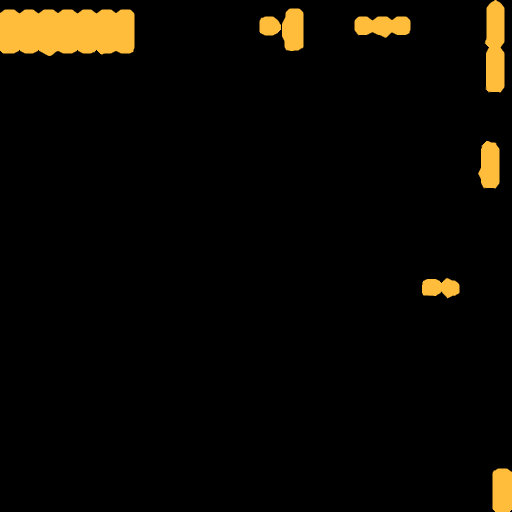
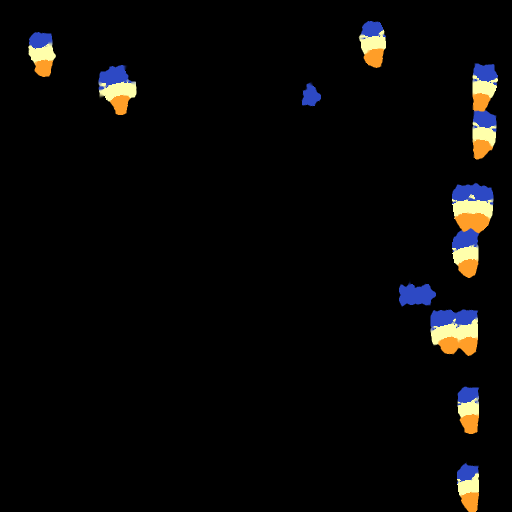
DOOM-0644: give Ultra's candle and candelabra a flame-shaped flame
The candelabra's three flames were rectangular blocks, and the candle
had no model. Both now burn with a teardrop: blue at the foot, pale
through the body, orange at the tip. The candle is a new model, a wax
stub in an iron dish with one light a third of the candelabra's.
Solid keeps the game's own candle picture.

Also files DOOM-0645 (E1M1's floor lamps are black and light nothing
nearby in the rasterised view) and DOOM-0646 (key-door strips as
coloured lights), both from the user today.

write-code: plain make clean; make test all passed, pickup_models_test
with CAND in its decoration table (bounds and radius checks ran on
CAND.dmdl). Local art pack rebaked. Proof of the look is captures:
E2M1 candles and E1M1 candelabra, Ultra, -rtview 0 and 6, before and
after; E2M1 start under -sourcedlight still candle-lit. Rows fired:
counted set, source file (models.csv, LICENSES), spec file. No pair
list in the project. The builders live outside this repository, in
the shared Blender Scripts folder.
write-doc: short path; DOOM-0539 section 5 names CAND, loop-log row
written.

diff --git a/linuxdoom-1.10/tests/pickup_models_test.cpp b/linuxdoom-1.10/tests/pickup_models_test.cpp
@@ -60,7 +60,7 @@ struct Decoration { Sprite sprite; int radius; };
 // the radius is info.c's, which contract 3 checks.
 const Decoration kDecorations[] = {
     {{"BAR1", 23,  28}, 10}, {{"COLU", 23, 43}, 16}, {{"ELEC", 38, 123}, 16},
-    {{"CBRA", 29,  57}, 16},
+    {{"CBRA", 29,  57}, 16}, {{"CAND", 16, 15}, 20},
 };
 
 std::string slurp(const std::string& path)

diff --git a/ROADMAP.md b/ROADMAP.md
@@ -1,6 +1,6 @@
 <!-- ants-roadmap-format: 1 -->
 <!-- Generated from the Ants Terminal roadmap store. Edit it with roadmap_log; hand edits are discarded by the next write. -->
-<!-- ants-roadmap-id-high-water: DOOM=643 -->
+<!-- ants-roadmap-id-high-water: DOOM=646 -->
 
 # Roadmap
 
@@ -20984,6 +20984,62 @@ in CLAUDE.md describes.
   DOOM-0642 B7. Spec: docs/specs/DOOM-0642-honest-light.md section 3.
   **Layman:** Rooms that flicker or strobe in the 1993 game keep flickering once their light comes from lamps instead of from nowhere.
   Kind: feature.
+  Source: user-request-2026-11-21.
+  Lanes: renderer.
+
+- 🚧 [DOOM-0644] **Candles and candelabra burn with a flame-shaped flame in Ultra.**
+  User, 2026-11-21: "give candles and candelabras proper flames".
+  Today the candelabra model (doom_cbra.py) burns with three
+  rectangular blocks, and the candle (CAND) has no model. Work: a
+  teardrop flame and a wick on each candelabra candle; a candle
+  model with the same flame and a light of its own, through
+  DOOM-0539's model path. Ultra only: a model needs the HD art, and
+  Solid keeps the game's own candle picture. The flame is a still
+  shape; whether it should move is not decided.
+  2026-11-21: built. pickupbake.py gains flame(), a teardrop with a
+  blue foot, a pale body and an orange tip. doom_cbra.py uses it in
+  place of its three blocks (its stem went to six sides to stay
+  under the triangle cap). doom_cand.py is new: a wax stub in an
+  iron dish with a wick, the flame and one light, a third of the
+  candelabra's. CAND is in models.csv, LICENSES and the model
+  test's decoration table. Pictures: Scratchpad d0644/cand-close.png
+  (sprite left, model right; -rtview 0 above, 6 below) and
+  cbra-v0-before-after.png. E2M1's start under -sourcedlight is
+  still candle-lit with the model (d0644/sl-sheet.png). The user's
+  look is owed, and whether the flame should move.
+  **Layman:** In Ultra the candelabra's flames are square blocks and the candle is still the 1993 picture; both get a real candle flame.
+  Kind: enhancement.
+  Source: user-request-2026-11-21.
+  Lanes: renderer, assets.
+
+- 📋 [DOOM-0645] **E1M1's floor lamps are black in Ultra and light nothing near them in the rasterised view.**
+  User, 2026-11-21: the lamp stands in E1M1 are black and do not
+  seem to cast light; make them silver in line with the original
+  and ensure they cast light.
+  Seen 2026-11-21 at E1M1 `600 -3236 200`, render scale 100
+  (Scratchpad d0645/now/sheet.png): in Ultra the COLU model's body
+  is flat black (doom_colu.py's body colour is 0.05), where the
+  game's sprite is dark metal with grey highlights. With -rtview 0
+  the wall beside the lamp is unlit in both Solid and Ultra; with
+  -rtview 6 it is lit in both. The 2026-11-17 captures (Scratchpad
+  d0620/c4/lampnear-v0-*.png) show the same unlit wall with
+  -rtview 0, for the sprite and for the model, so the missing
+  light is older than today's work. Cause not found yet: start at
+  how mesh.frag treats a light whose reach is 0.
+  **Layman:** The lamp stands should be silver like the 1993 game's and should visibly light the floor and walls around them.
+  Kind: fix.
+  Source: user-request-2026-11-21.
+  Lanes: renderer.
+
+- 📋 [DOOM-0646] **The blue, yellow and red strips on key doors are lights and cast their colour.**
+  User, 2026-11-21. The key-door textures (DOORBLU, DOORRED,
+  DOORYEL and the skull forms DOORBLU2, DOORRED2, DOORYEL2) are
+  not on wall_light_tex in r_mesh.c, so they emit nothing. This is
+  part of DOOM-0642 stage 1 (every screen and light casts light).
+  Check each texture's derived colour and strength with captures
+  in both views, in Solid and Ultra.
+  **Layman:** The coloured strips beside a locked door glow and tint the wall and floor near them blue, yellow or red.
+  Kind: enhancement.
   Source: user-request-2026-11-21.
   Lanes: renderer.
 

diff --git a/docs/reviews/DOOM-0539-pickup-models-loop-log.md b/docs/reviews/DOOM-0539-pickup-models-loop-log.md
@@ -14,3 +14,4 @@
 | impl | 2026-11-20 | 0 | - | - | - | - | Not a review; no reviewer dispatched. DOOM-0631: § 4.5 says the swap between a model and its sprite is a dithered fade over the last stretch before the cutoff (RB_ModelFadeLevel, RB_MESH_FADE_*, modelFadeKeeps; tests/sprite_cap_test.cpp case 5). No invariant added or changed. |
 | impl | 2026-11-20 | 0 | - | - | - | - | Not a review; no reviewer dispatched. DOOM-0641: § 4.3 lets models.csv name a sprite on up to four rows, each a variant picked per Thing by thing_hash, and takes the turn from where the map placed the Thing; § 5 gives a sprite with variants 1024x1024 maps. No invariant added or changed. |
 | impl | 2026-11-20 | 0 | - | - | - | - | Not a review; no reviewer dispatched. DOOM-0619: § 4.3 says a third word, bubbles, on a sprite's first models.csv row sets RB_FLAG_BUBBLES, and both views draw rising bubbles where that model's glow map is lit (shaders/formulas/bubbles.glsl; tests/rb_model_test.cpp case 6). No invariant added or changed. |
+| impl | 2026-11-21 | 0 | - | - | - | - | Not a review; no reviewer dispatched. DOOM-0644: §5's decorations add CAND, the candle. No invariant added or changed. |

diff --git a/docs/specs/DOOM-0539-pickup-models.md b/docs/specs/DOOM-0539-pickup-models.md
@@ -160,7 +160,7 @@ Pickup sprites, from the game's own table, so an inventory test can compare (INV
 PLAS PMAP PSTR PVIS RKEY ROCK RSKU SBOX SGN2 SHEL SHOT SOUL STIM SUIT YKEY YSKU`
 
 Decorations (DOOM-0620), none of them `MF_SPECIAL`: `BAR1` (barrel), `COLU` (floor lamp), `ELEC`
-(tall tech column), `CBRA` (candelabra).
+(tall tech column), `CBRA` (candelabra), `CAND` (candle, DOOM-0644).
 
 Each of a model's three maps is at most 512x512: 1.33 MB of video memory with mips (`mbOf` in
 `EnsureHdMaterials`), so 4 MB per model, inside `kHdBudgetMB`'s accounting. A sprite with variants
